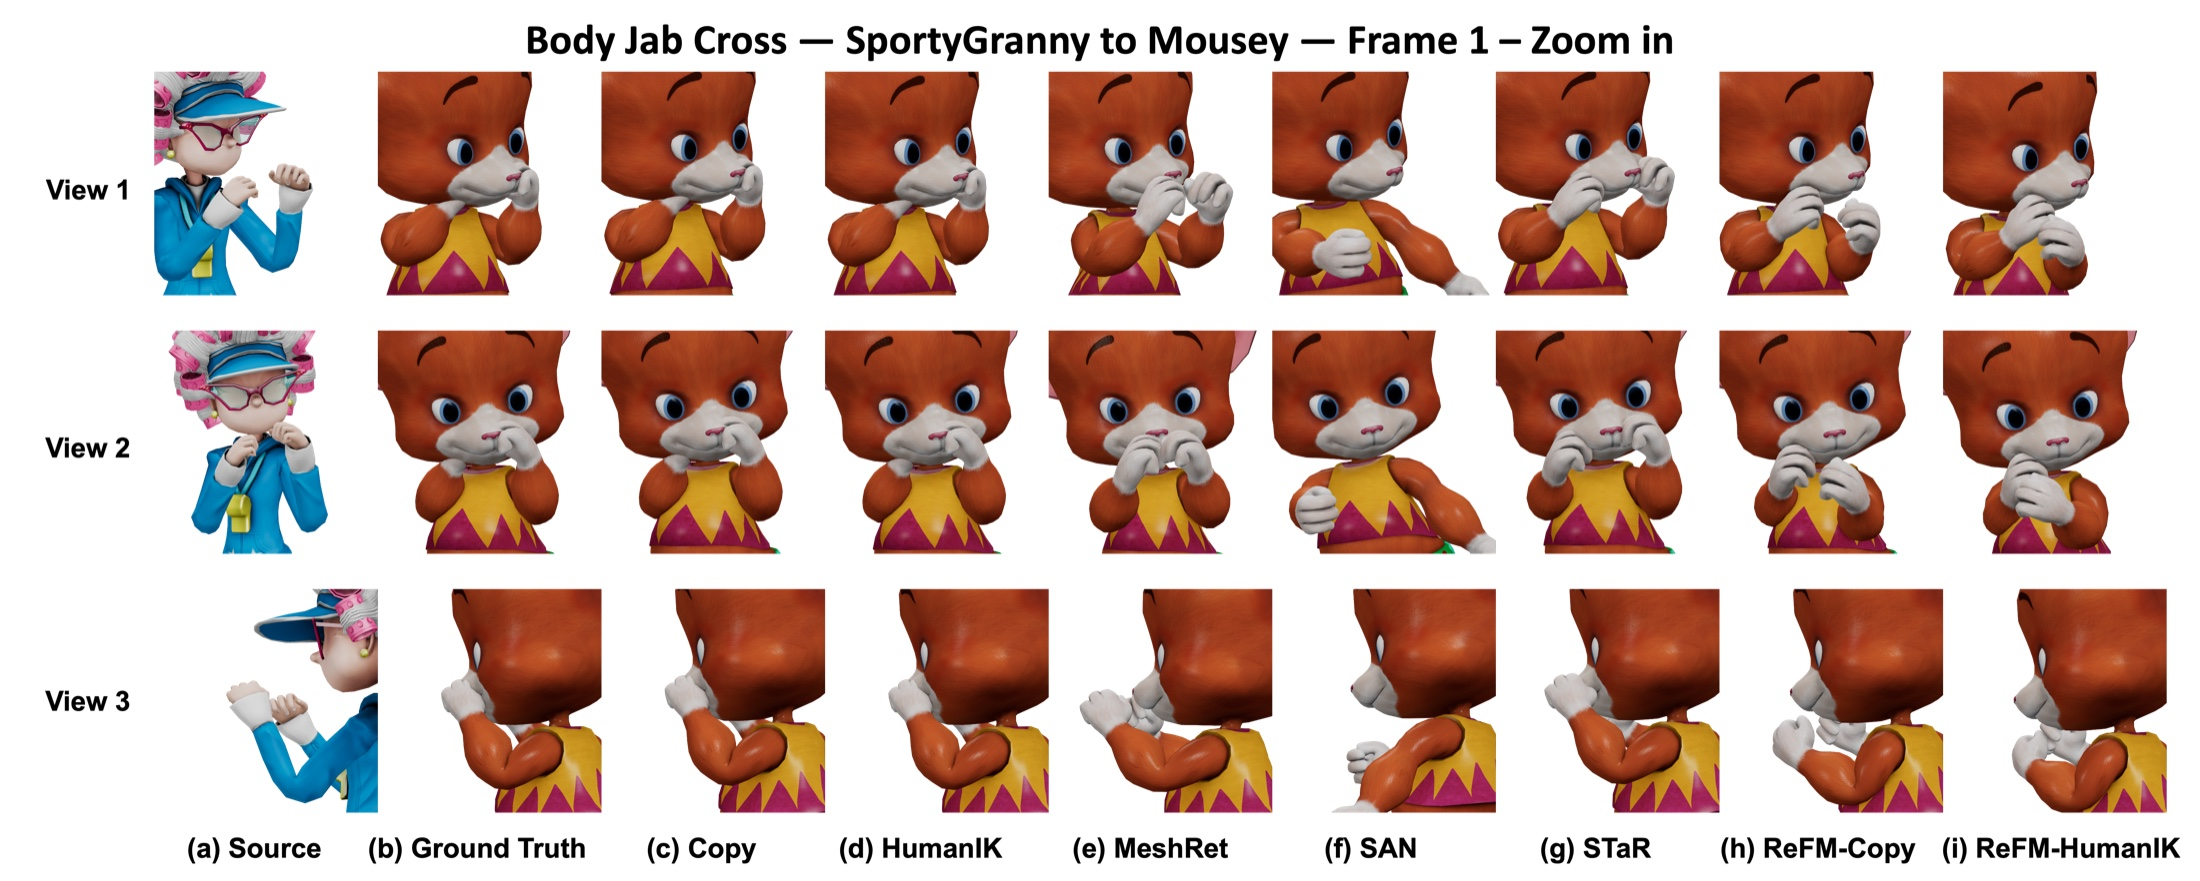
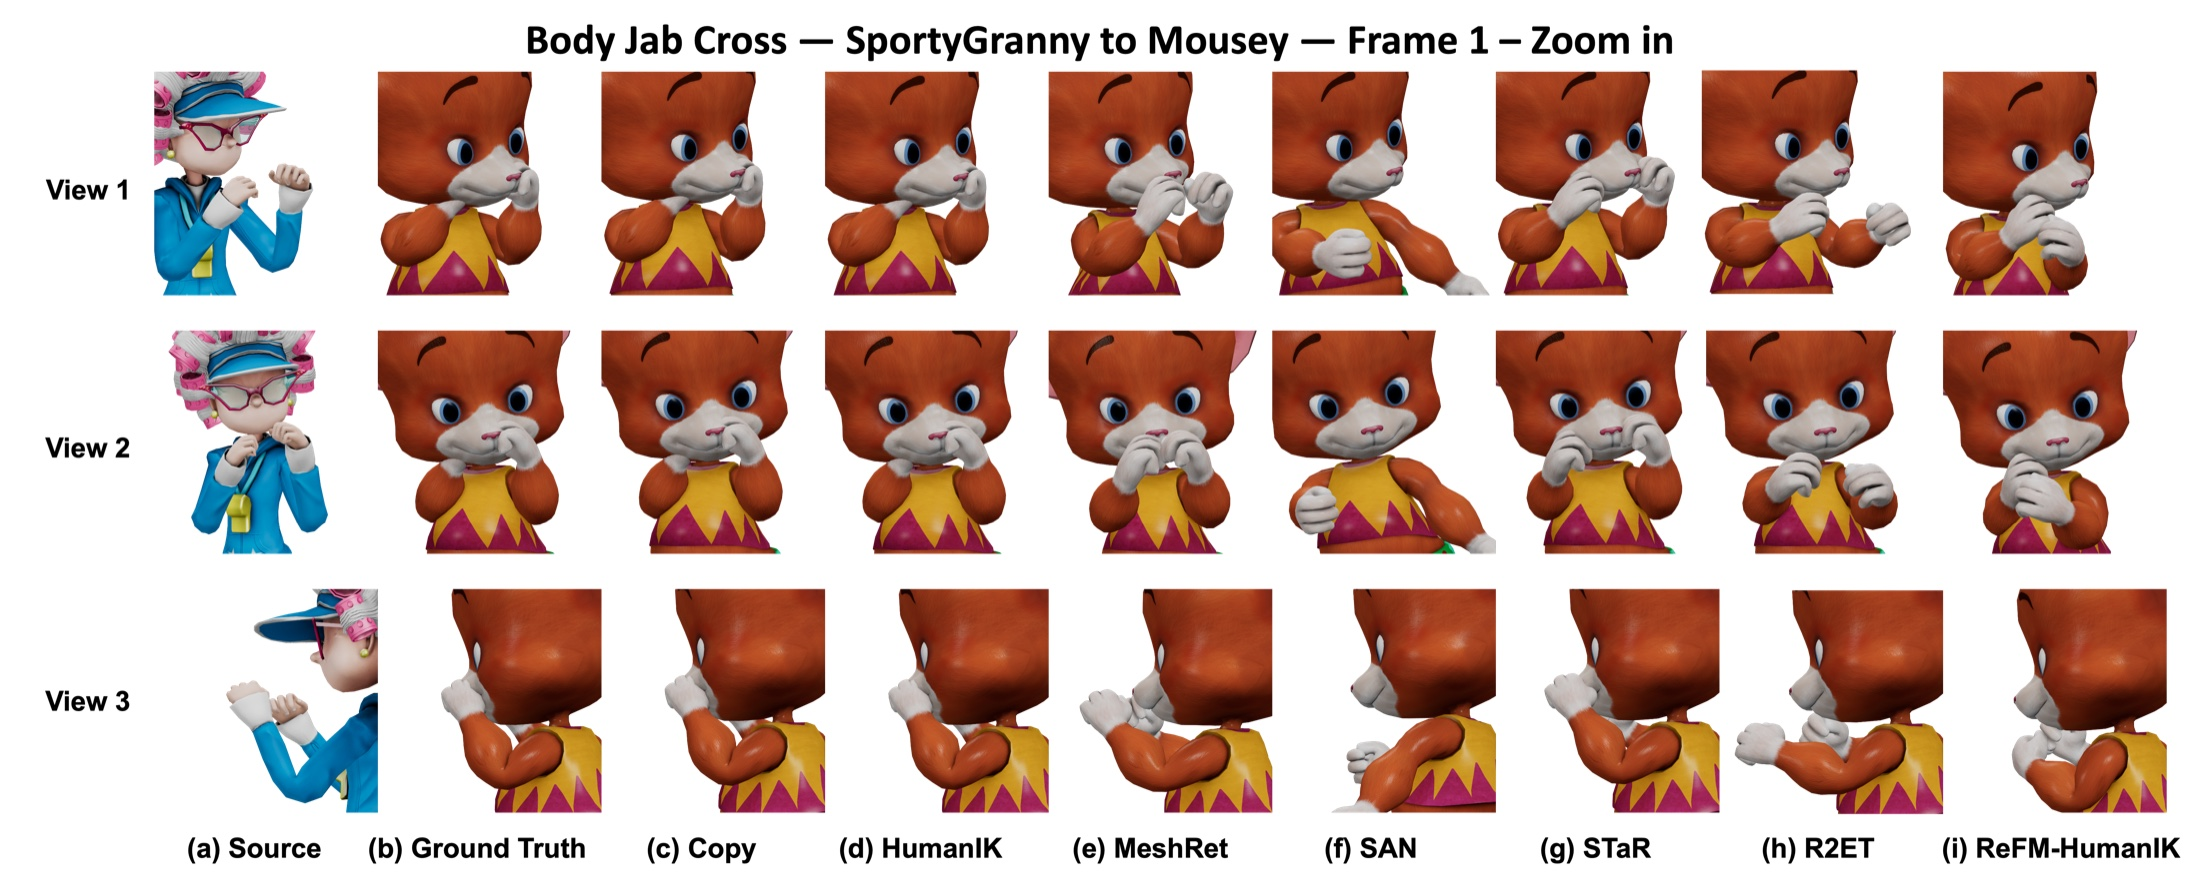
Update qualitative gallery: add R2ET, add Dancing example
- Body Jab Cross (frame 1 & 21, full + zoom) and Dribble (frame 3,
  full + zoom) figures are regenerated to include the R2ET baseline
  column, replacing ReFM-Copy (now Source, Ground Truth, Copy,
  HumanIK, MeshRet, SAN, STaR, R2ET, ReFM-HumanIK).
- Rename the Dribble full-view asset from Dribble-F1 to Dribble-F3
  to match its actual frame number.
- Add a new Dancing (TheBoss to Aj, frame 32) example, full + zoom,
  to the gallery and GALLERY_ITEMS.
- Update gallery captions and initial counter (1 / 9 -> 1 / 11)
  accordingly.
- Resize/compress all new/updated raw PNGs (5-16MB each) down to
  web-friendly JPEGs (~300-560KB), consistent with the rest of the
  gallery.
- Add .gitignore for macOS .DS_Store files.

Changed region(s): [[0.7727, 0.3678, 0.8655, 0.6742], [0.7727, 0.0613, 0.8655, 0.3371], [0.7727, 0.7968, 0.8655, 0.9807]]

diff --git a/index.html b/index.html
@@ -239,7 +239,7 @@
             </div>
             <button class="gallery-nav prev" id="gallery-prev" aria-label="Previous image"><img src="static/images/icons/left-arrow.png" alt="Previous"></button>
             <button class="gallery-nav next" id="gallery-next" aria-label="Next image"><img src="static/images/icons/right-arrow.png" alt="Next"></button>
-            <div class="gallery-counter" id="gallery-counter">1 / 9</div>
+            <div class="gallery-counter" id="gallery-counter">1 / 11</div>
           </div>
           <p class="gallery-caption" id="gallery-caption"></p>
           <div class="gallery-dots" id="gallery-dots"></div>
@@ -270,12 +270,14 @@
 
   <script>
     var GALLERY_ITEMS = [
-      { src: 'static/images/gallery/BJC-F1.jpg', alt: 'Body Jab Cross, SportyGranny to Mousey, frame 1', caption: 'Body Jab Cross — SportyGranny to Mousey — Frame 1. Full-character comparison across Source, Ground Truth, Copy, HumanIK, MeshRet, SAN, STaR, ReFM-Copy, and ReFM-HumanIK.' },
+      { src: 'static/images/gallery/BJC-F1.jpg', alt: 'Body Jab Cross, SportyGranny to Mousey, frame 1', caption: 'Body Jab Cross — SportyGranny to Mousey — Frame 1. Full-character comparison across Source, Ground Truth, Copy, HumanIK, MeshRet, SAN, STaR, R2ET, and ReFM-HumanIK.' },
       { src: 'static/images/gallery/BJC-F1-Zoom.jpg', alt: 'Body Jab Cross, SportyGranny to Mousey, frame 1, zoomed in', caption: 'Body Jab Cross — SportyGranny to Mousey — Frame 1 — Zoom in. Enlarged view of the hand-to-torso region, exposing local self-penetration differences.' },
       { src: 'static/images/gallery/BJC-F21.jpg', alt: 'Body Jab Cross, SportyGranny to Mousey, frame 21', caption: 'Body Jab Cross — SportyGranny to Mousey — Frame 21. Full-character comparison at a later frame in the sequence.' },
       { src: 'static/images/gallery/BJC-F21-Zoom.jpg', alt: 'Body Jab Cross, SportyGranny to Mousey, frame 21, zoomed in', caption: 'Body Jab Cross — SportyGranny to Mousey — Frame 21 — Zoom in. Enlarged view highlighting geometric conflicts around the arms and torso.' },
-      { src: 'static/images/gallery/Dribble-F1.jpg', alt: 'Dribble, TheBoss to Aj, frame 3', caption: 'Dribble — TheBoss to Aj — Frame 3. Full-character comparison across all baselines and ReFM variants.' },
+      { src: 'static/images/gallery/Dribble-F3.jpg', alt: 'Dribble, TheBoss to Aj, frame 3', caption: 'Dribble — TheBoss to Aj — Frame 3. Full-character comparison across Source, Ground Truth, Copy, HumanIK, MeshRet, SAN, STaR, R2ET, and ReFM-HumanIK.' },
       { src: 'static/images/gallery/Dribble-F3-Zoom.jpg', alt: 'Dribble, TheBoss to Aj, frame 3, zoomed in', caption: 'Dribble — TheBoss to Aj — Frame 3 — Zoom in. Close-up on the arm–torso interaction where mismatched body proportions can cause self-intersection.' },
+      { src: 'static/images/gallery/Dancing-F32.jpg', alt: 'Dancing, TheBoss to Aj, frame 32', caption: 'Dancing — TheBoss to Aj — Frame 32. Full-character comparison across Source, Ground Truth, Copy, HumanIK, MeshRet, SAN, STaR, R2ET, and ReFM-HumanIK.' },
+      { src: 'static/images/gallery/Dancing-F32-Zoom.jpg', alt: 'Dancing, TheBoss to Aj, frame 32, zoomed in', caption: 'Dancing — TheBoss to Aj — Frame 32 — Zoom in. Close-up on the hand–leg interaction where mismatched body proportions can cause self-intersection.' },
       { src: 'static/images/gallery/ScanRet-1.jpg', alt: 'ScanRet sequence, JiangRuiSen to WuJie', caption: 'ScanRet — QY_0413_JiangRuiSen_007 to QY_0630_WuJie_030. Temporal comparison of Ground Truth, Copy, HumanIK, ReFM-copy, and ReFM-HumanIK on a real-human motion sequence.' },
       { src: 'static/images/gallery/ScanRet-2.jpg', alt: 'ScanRet sequence, WuJie to XiaDian', caption: 'ScanRet — QY_0630_WuJie_030 to QY_0701_XiaDian_037. Temporal comparison of Ground Truth, Copy, HumanIK, ReFM-copy, and ReFM-HumanIK.' },
       { src: 'static/images/gallery/ScanRet-3.jpg', alt: 'ScanRet sequence, DaiQuanWu to ZhangHaoXuan', caption: 'ScanRet — QY_0413_DaiQuanWu_008 to QY_0701_ZhangHaoXuan_036. Frames 1–56, sampled every 5 frames, across Ground Truth, Copy, HumanIK, and both ReFM-refined variants.' }
